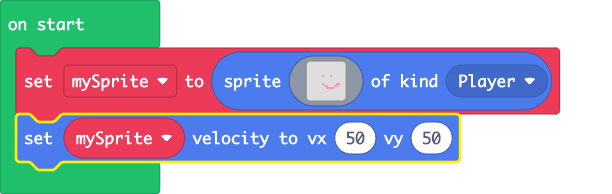
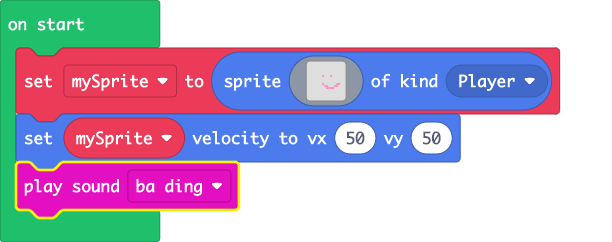
Update main.blocks, main.ts

diff --git a/main.ts b/main.ts
@@ -17,3 +17,4 @@ let mySprite = sprites.create(img`
     . . . . . . . . . . . . . . . . 
     `, SpriteKind.Player)
 mySprite.setVelocity(50, 50)
+music.baDing.play()
